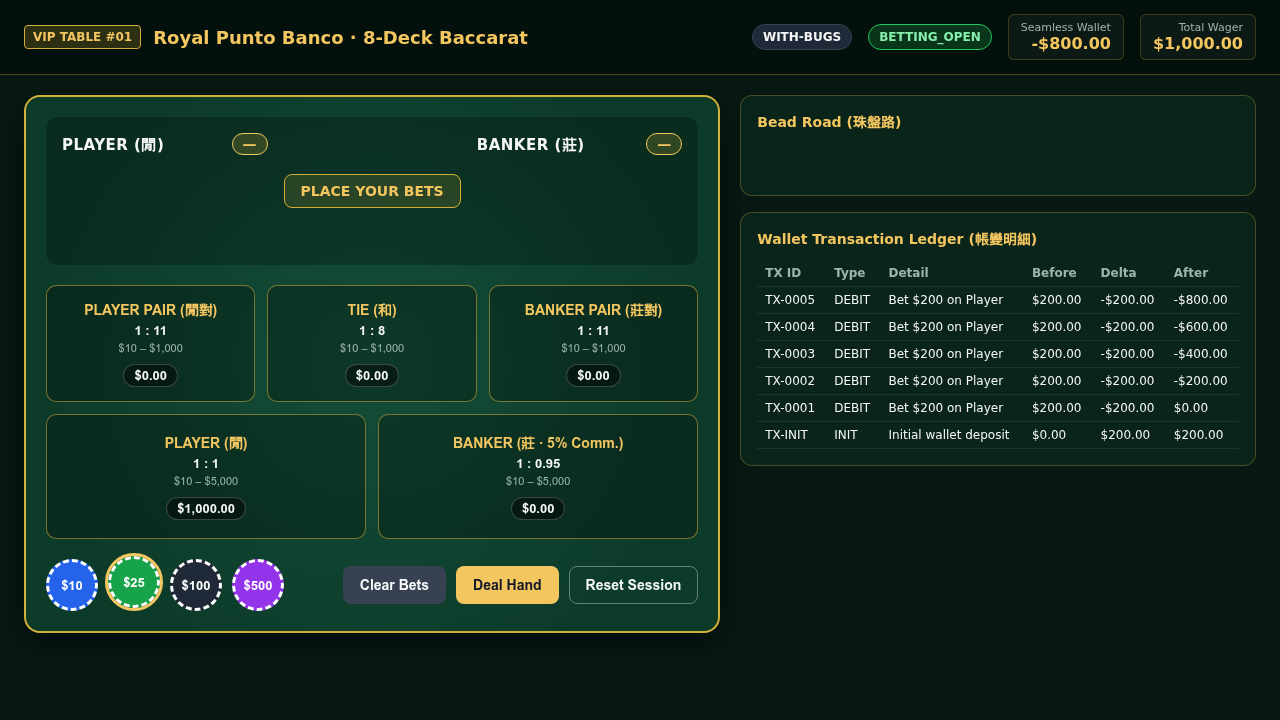
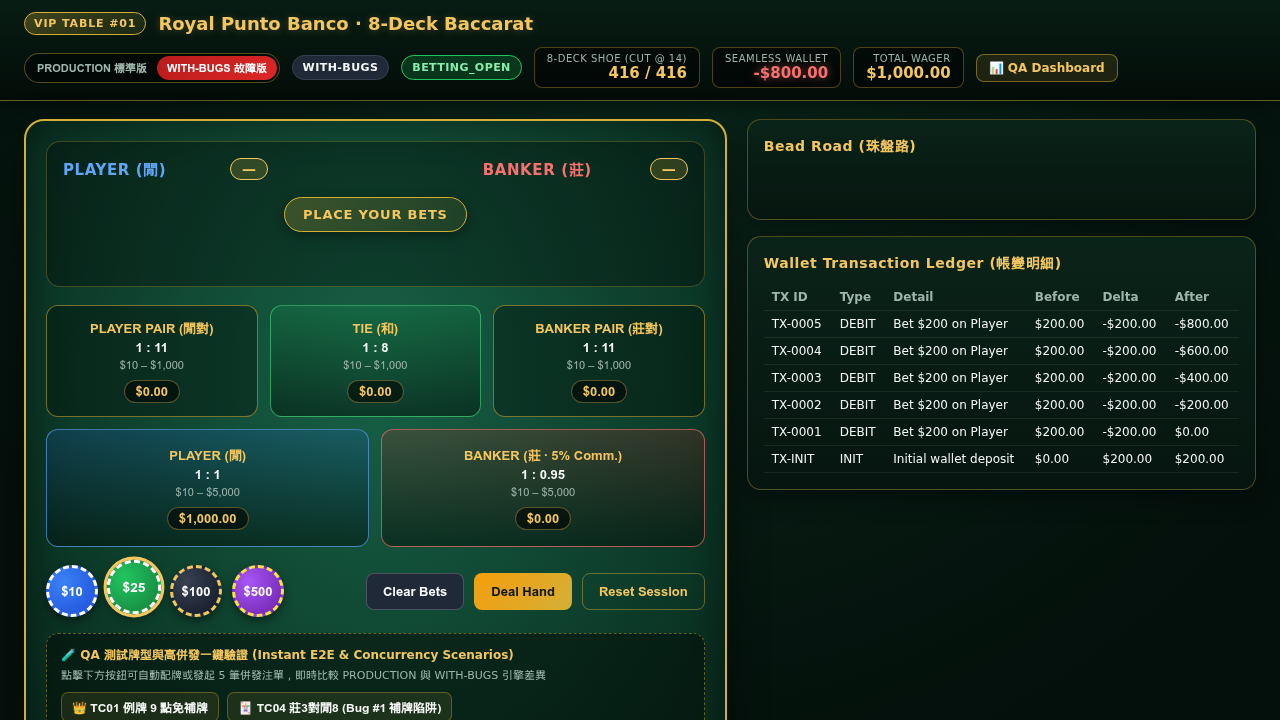
feat(table,docs): add 8-deck shoe counter, TC14 concurrency race sandbox button, cross-link READMEs, and refresh luxury UI bug screenshots

Changed region(s): [[0.0, 0.0, 0.9688, 1.0], [0.9062, 0.0306, 0.9688, 0.0917], [0.5312, 0.7028, 0.5625, 0.7639]]

diff --git a/app/public/table.js b/app/public/table.js
@@ -30,6 +30,12 @@ function emptyBets() {
   return { player: 0, banker: 0, tie: 0, playerPair: 0, bankerPair: 0 };
 }
 
+function withLocalLock(session, fn) {
+  const next = session.lock.then(fn, fn);
+  session.lock = next.catch(() => {});
+  return next;
+}
+
 function createLocalSession(mode = currentMode, initialBalance = 1000) {
   const rand = createPrng(20261007);
   const initialCents = Math.round(initialBalance * 100);
@@ -58,6 +64,7 @@ function createLocalSession(mode = currentMode, initialBalance = 1000) {
     txCounter: 1,
     rand,
     shoe: createShoe(8, rand),
+    lock: Promise.resolve(),
   };
 }
 
@@ -81,11 +88,14 @@ function serializeLocalSession(session) {
     lastRound: session.lastRound,
     beadRoad: session.beadRoad,
     ledger: session.ledger,
+    shoeRemaining: session.shoe.length,
+    shoeTotal: 416,
+    cutCardAt: 14,
     limits: TABLE_LIMITS,
   };
 }
 
-function handleLocalApi(path, method, body = {}) {
+async function handleLocalApi(path, method, body = {}) {
   if (!localSession) {
     localSession = createLocalSession(currentMode, 1000);
   }
@@ -103,34 +113,41 @@ function handleLocalApi(path, method, body = {}) {
     const { zone, amount } = body;
     const limit = TABLE_LIMITS[zone];
     if (!limit) throw new Error(`Unknown bet zone: ${String(zone)}`);
-    const amountCents = Math.round(Number(amount) * 100);
-    if (amountCents < limit.min * 100) {
-      throw new Error(`Bet amount $${amount} is below the minimum ($${limit.min}) for ${limit.label}`);
-    }
-    const nextZoneCents = localSession.betsCents[zone] + amountCents;
-    if (nextZoneCents > limit.max * 100) {
-      throw new Error(`Total bet $${toDollars(nextZoneCents)} exceeds the maximum ($${limit.max}) for ${limit.label}`);
-    }
-    if (localSession.balanceCents < amountCents) {
-      throw new Error('Insufficient wallet balance');
-    }
-    const beforeCents = localSession.balanceCents;
-    const afterCents = beforeCents - amountCents;
-    localSession.balanceCents = afterCents;
-    localSession.betsCents[zone] += amountCents;
-    const txId = `TX-${String(localSession.txCounter++).padStart(4, '0')}`;
-    localSession.ledger.push({
-      id: txId,
-      type: 'DEBIT',
-      description: `Bet $${toDollars(amountCents)} on ${limit.label}`,
-      beforeCents,
-      deltaCents: -amountCents,
-      afterCents,
-      beforeBalance: toDollars(beforeCents),
-      delta: -toDollars(amountCents),
-      afterBalance: toDollars(afterCents),
-    });
-    return serializeLocalSession(localSession);
+    const processBet = async () => {
+      const amountCents = Math.round(Number(amount) * 100);
+      if (amountCents < limit.min * 100) {
+        throw new Error(`Bet amount $${amount} is below the minimum ($${limit.min}) for ${limit.label}`);
+      }
+      const nextZoneCents = localSession.betsCents[zone] + amountCents;
+      if (nextZoneCents > limit.max * 100) {
+        throw new Error(`Total bet $${toDollars(nextZoneCents)} exceeds the maximum ($${limit.max}) for ${limit.label}`);
+      }
+      const beforeCents = localSession.balanceCents;
+      if (beforeCents < amountCents) {
+        throw new Error('Insufficient wallet balance');
+      }
+      // Yield 15ms to simulate async DB I/O; without mutex lock (Bug #5 in with-bugs), concurrent requests race here.
+      await new Promise((resolve) => setTimeout(resolve, 15));
+      const afterCents = localSession.balanceCents - amountCents;
+      localSession.balanceCents = afterCents;
+      localSession.betsCents[zone] += amountCents;
+      const txId = `TX-${String(localSession.txCounter++).padStart(4, '0')}`;
+      localSession.ledger.push({
+        id: txId,
+        type: 'DEBIT',
+        description: `Bet $${toDollars(amountCents)} on ${limit.label}`,
+        beforeCents,
+        deltaCents: -amountCents,
+        afterCents,
+        beforeBalance: toDollars(beforeCents),
+        delta: -toDollars(amountCents),
+        afterBalance: toDollars(afterCents),
+      });
+      return serializeLocalSession(localSession);
+    };
+    return localSession.mode === 'with-bugs'
+      ? await processBet()
+      : await withLocalLock(localSession, processBet);
   }
   if (method === 'POST' && path === '/api/bets/clear') {
     const totalRefundCents = Object.values(localSession.betsCents).reduce((a, b) => a + b, 0);
@@ -155,16 +172,18 @@ function handleLocalApi(path, method, body = {}) {
     return serializeLocalSession(localSession);
   }
   if (method === 'POST' && path === '/api/deal') {
-    let cards;
-    if (Array.isArray(body.deck) && body.deck.length >= 6) {
-      cards = body.deck.map((c) => ({ suit: c.suit, rank: String(c.rank) }));
-    } else {
-      if (localSession.shoe.length < 14) {
-        localSession.shoe = createShoe(8, localSession.rand);
-      }
-      cards = localSession.shoe;
+    if (localSession.shoe.length < 14) {
+      localSession.shoe = createShoe(8, localSession.rand);
     }
+    const usingCustomDeck = Array.isArray(body.deck) && body.deck.length >= 6;
+    const cards = usingCustomDeck
+      ? body.deck.map((c) => ({ suit: c.suit, rank: String(c.rank) }))
+      : localSession.shoe;
     const hand = dealBaccaratHand(cards, localSession.mode);
+    if (usingCustomDeck) {
+      const dealtCount = hand.playerCards.length + hand.bankerCards.length;
+      localSession.shoe.splice(0, dealtCount);
+    }
     const settlement = settleBets(localSession.betsCents, hand, localSession.mode);
     if (settlement.totalReturnCents > 0) {
       const beforeCents = localSession.balanceCents;
@@ -230,15 +249,17 @@ function formatMoney(amount) {
   })}`;
 }
 
-function showMessage(text) {
+function showMessage(text, isPositive = false) {
   const banner = document.querySelector('[data-test="table-message"]');
   if (!text) {
     banner.hidden = true;
     banner.textContent = '';
+    banner.classList.remove('message-ok');
     return;
   }
   banner.hidden = false;
   banner.textContent = text;
+  banner.classList.toggle('message-ok', isPositive);
 }
 
 function renderCards(container, cards) {
@@ -264,7 +285,15 @@ function renderState(state) {
   statusEl.textContent = state.tableState;
   statusEl.className = `badge ${state.tableState === 'BETTING_OPEN' ? 'status-open' : 'status-closed'}`;
 
-  document.querySelector('[data-test="wallet-balance"]').textContent = formatMoney(state.balance);
+  const shoeEl = document.querySelector('[data-test="shoe-counter"]');
+  if (shoeEl) {
+    shoeEl.textContent = `${state.shoeRemaining ?? 416} / ${state.shoeTotal ?? 416}`;
+  }
+
+  const walletEl = document.querySelector('[data-test="wallet-balance"]');
+  walletEl.textContent = formatMoney(state.balance);
+  walletEl.classList.toggle('wallet-negative', Number(state.balance) < 0);
+
   document.querySelector('[data-test="total-bet"]').textContent = formatMoney(state.totalBet);
 
   for (const zone of ZONES) {
@@ -484,6 +513,35 @@ document.querySelectorAll('[data-preset]').forEach((btn) => {
       await apiCall('/api/bets', 'POST', { zone: scenario.zone, amount: scenario.amount });
       const state = await apiCall('/api/deal', 'POST', { deck: scenario.deck });
       renderState(state);
+    } catch (err) {
+      showMessage(err.message);
+    }
+  });
+});
+
+document.querySelectorAll('[data-preset-race]').forEach((btn) => {
+  btn.addEventListener('click', async () => {
+    showMessage('');
+    try {
+      await apiCall('/api/session/reset', 'POST', { balance: 200, mode: currentMode });
+      const settled = await Promise.allSettled(
+        [1, 2, 3, 4, 5].map(() => apiCall('/api/bets', 'POST', { zone: 'player', amount: 200 })),
+      );
+      const accepted = settled.filter((r) => r.status === 'fulfilled').length;
+      const rejected = settled.length - accepted;
+      const state = await apiCall('/api/state');
+      renderState(state);
+      if (state.balance < 0) {
+        showMessage(
+          `✕ [TC14 Bug #5 競態超扣重現] 錢包僅有 $200.00，同時發送 5 筆 $200 注單：因未加互斥鎖，${accepted} 筆全數闖關成功，餘額被扣成負數 ${formatMoney(state.balance)}！`,
+          false,
+        );
+      } else {
+        showMessage(
+          `✓ [TC14 PRODUCTION 互斥鎖生效] 錢包僅有 $200.00，同時發送 5 筆 $200 注單：僅 ${accepted} 筆扣款成功、${rejected} 筆因餘額不足被擋下，餘額安全維持 ${formatMoney(state.balance)}。`,
+          true,
+        );
+      }
     } catch (err) {
       showMessage(err.message);
     }

diff --git a/app/public/index.html b/app/public/index.html
@@ -20,6 +20,10 @@
         <span class="badge" data-test="target-mode">PRODUCTION</span>
         <span class="badge status-open" data-test="table-status">BETTING_OPEN</span>
         <div class="wallet-box">
+          <span class="wallet-label">8-Deck Shoe (Cut @ 14)</span>
+          <strong class="wallet-amount" data-test="shoe-counter">416 / 416</strong>
+        </div>
+        <div class="wallet-box">
           <span class="wallet-label">Seamless Wallet</span>
           <strong class="wallet-amount" data-test="wallet-balance">$1,000.00</strong>
         </div>
@@ -108,8 +112,8 @@
 
         <div class="qa-preset-bar">
           <div class="qa-preset-head">
-            <span class="qa-preset-title">🧪 QA 測試牌型一鍵驗證 (Instant E2E Scenario Deals)</span>
-            <span class="qa-preset-sub">點擊下方按鈕可自動配牌發局，即時比較 PRODUCTION 與 WITH-BUGS 引擎的派彩差異</span>
+            <span class="qa-preset-title">🧪 QA 測試牌型與高併發一鍵驗證 (Instant E2E &amp; Concurrency Scenarios)</span>
+            <span class="qa-preset-sub">點擊下方按鈕可自動配牌或發起 5 筆併發注單，即時比較 PRODUCTION 與 WITH-BUGS 引擎差異</span>
           </div>
           <div class="qa-preset-buttons">
             <button type="button" class="preset-btn" data-preset="natural9">👑 TC01 例牌 9 點免補牌</button>
@@ -117,6 +121,7 @@
             <button type="button" class="preset-btn" data-preset="tiePush">🤝 TC09 和局退還主注 (Bug #2 沒收主注)</button>
             <button type="button" class="preset-btn" data-preset="commission35">💰 TC08 莊贏 $35 抽水 5% (Bug #3 小數截斷)</button>
             <button type="button" class="preset-btn" data-preset="mixedPair">♠♥ TC10 異花色對子 1:11 (Bug #4 對子漏判)</button>
+            <button type="button" class="preset-btn preset-btn-race" data-preset-race="tc14">⚡ TC14 模擬 5 筆併發梭哈 (Bug #5 競態超扣)</button>
           </div>
         </div>
       </section>

diff --git a/app/public/styles.css b/app/public/styles.css
@@ -139,6 +139,11 @@ body {
   font-variant-numeric: tabular-nums;
 }
 
+.wallet-amount.wallet-negative {
+  color: #f87171;
+  text-shadow: 0 0 10px rgba(248, 113, 113, 0.55);
+}
+
 .dashboard-back-link {
   padding: 6px 12px;
   border-radius: 8px;
@@ -430,6 +435,12 @@ body {
   font-weight: 600;
 }
 
+.message-banner.message-ok {
+  background: rgba(22, 163, 74, 0.25);
+  border-color: #22c55e;
+  color: #bbf7d0;
+}
+
 .qa-preset-bar {
   margin-top: 16px;
   padding: 12px 14px;
@@ -479,6 +490,17 @@ body {
 .preset-btn:hover {
   background: rgba(212, 175, 55, 0.22);
   border-color: var(--gold);
+}
+
+.preset-btn-race {
+  border-color: rgba(248, 113, 113, 0.55);
+  background: rgba(220, 38, 38, 0.16);
+  color: #fecaca;
+}
+
+.preset-btn-race:hover {
+  background: rgba(220, 38, 38, 0.28);
+  border-color: #f87171;
 }
 
 .side-panel {

diff --git a/README.zh-TW.md b/README.zh-TW.md
@@ -13,6 +13,10 @@
 - **博奕缺陷偵測報告（`with-bugs` 模式）**：[https://ntcloudy.github.io/baccarat-e2e-dashboard/#/bugs](https://ntcloudy.github.io/baccarat-e2e-dashboard/#/bugs)
 - **互動式測試控制台（直接勾選案例並觸發雲端執行）**：[https://ntcloudy.github.io/baccarat-e2e-dashboard/#/console](https://ntcloudy.github.io/baccarat-e2e-dashboard/#/console)
 
+> **QA 自動化測試雙作品集導覽**：
+> - 🎰 **作品集二（本專案 — 博奕百家樂桌台、單一錢包高併發與 10 萬局 RTP 驗證）**：[`NTCloudy/baccarat-e2e-dashboard`](https://github.com/NTCloudy/baccarat-e2e-dashboard) · [皇家賭場 QA 儀表板](https://ntcloudy.github.io/baccarat-e2e-dashboard/)
+> - 🛒 **作品集一（電商購物網站端對端 E2E 與 94 項已知問題對照）**：[`NTCloudy/playwright-e2e-dashboard`](https://github.com/NTCloudy/playwright-e2e-dashboard) · [電商測試結果網站](https://ntcloudy.github.io/playwright-e2e-dashboard/)
+
 ---
 
 ## 為什麼選擇這個主題？（五大博奕 QA 核心驗證支柱）

diff --git a/README.md b/README.md
@@ -13,6 +13,10 @@ An end-to-end **iGaming / Casino QA Automation** portfolio project built with **
 - **Bug Detection Report (`with-bugs`)**: [https://ntcloudy.github.io/baccarat-e2e-dashboard/#/bugs](https://ntcloudy.github.io/baccarat-e2e-dashboard/#/bugs)
 - **Interactive Test Console**: [https://ntcloudy.github.io/baccarat-e2e-dashboard/#/console](https://ntcloudy.github.io/baccarat-e2e-dashboard/#/console)
 
+> **QA Automation Portfolio Series**:
+> - 🎰 **Project #2 (This Repo — iGaming / Casino & Seamless Wallet QA)**: [`NTCloudy/baccarat-e2e-dashboard`](https://github.com/NTCloudy/baccarat-e2e-dashboard) · [Live Casino QA Dashboard](https://ntcloudy.github.io/baccarat-e2e-dashboard/)
+> - 🛒 **Project #1 (E-Commerce Web Store E2E & 94-Bug Audit)**: [`NTCloudy/playwright-e2e-dashboard`](https://github.com/NTCloudy/playwright-e2e-dashboard) · [Live E-Commerce QA Dashboard](https://ntcloudy.github.io/playwright-e2e-dashboard/)
+
 ---
 
 ## Why This Project? (5 Core iGaming QA Pillars)
